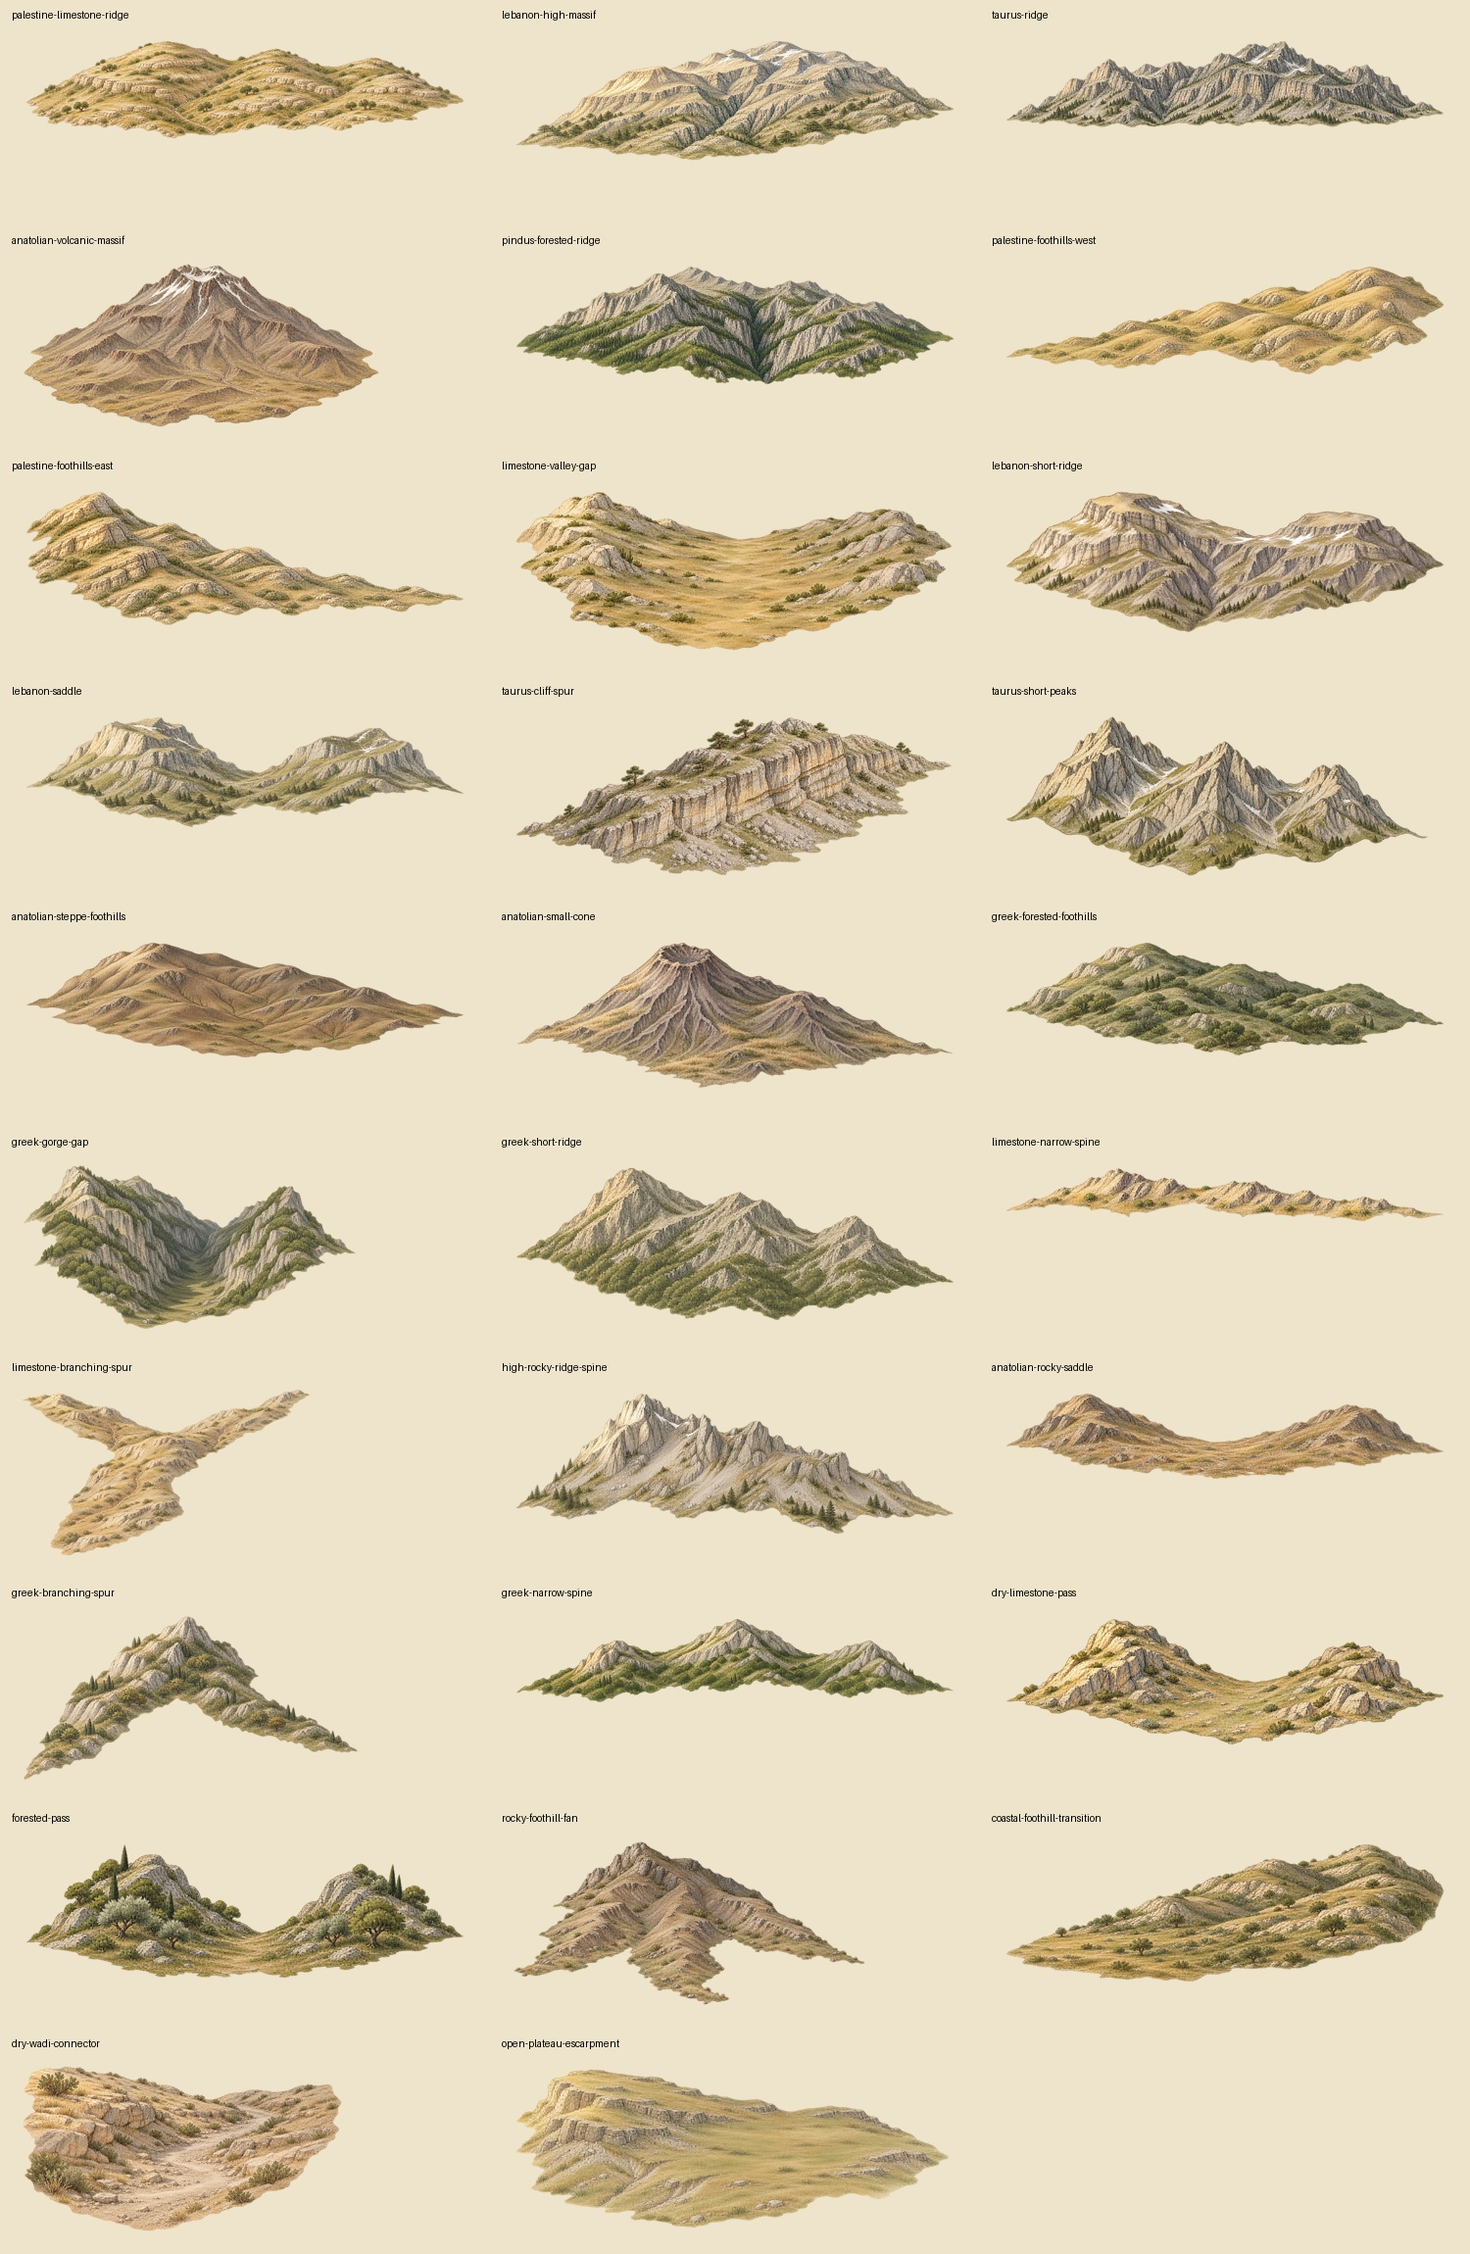
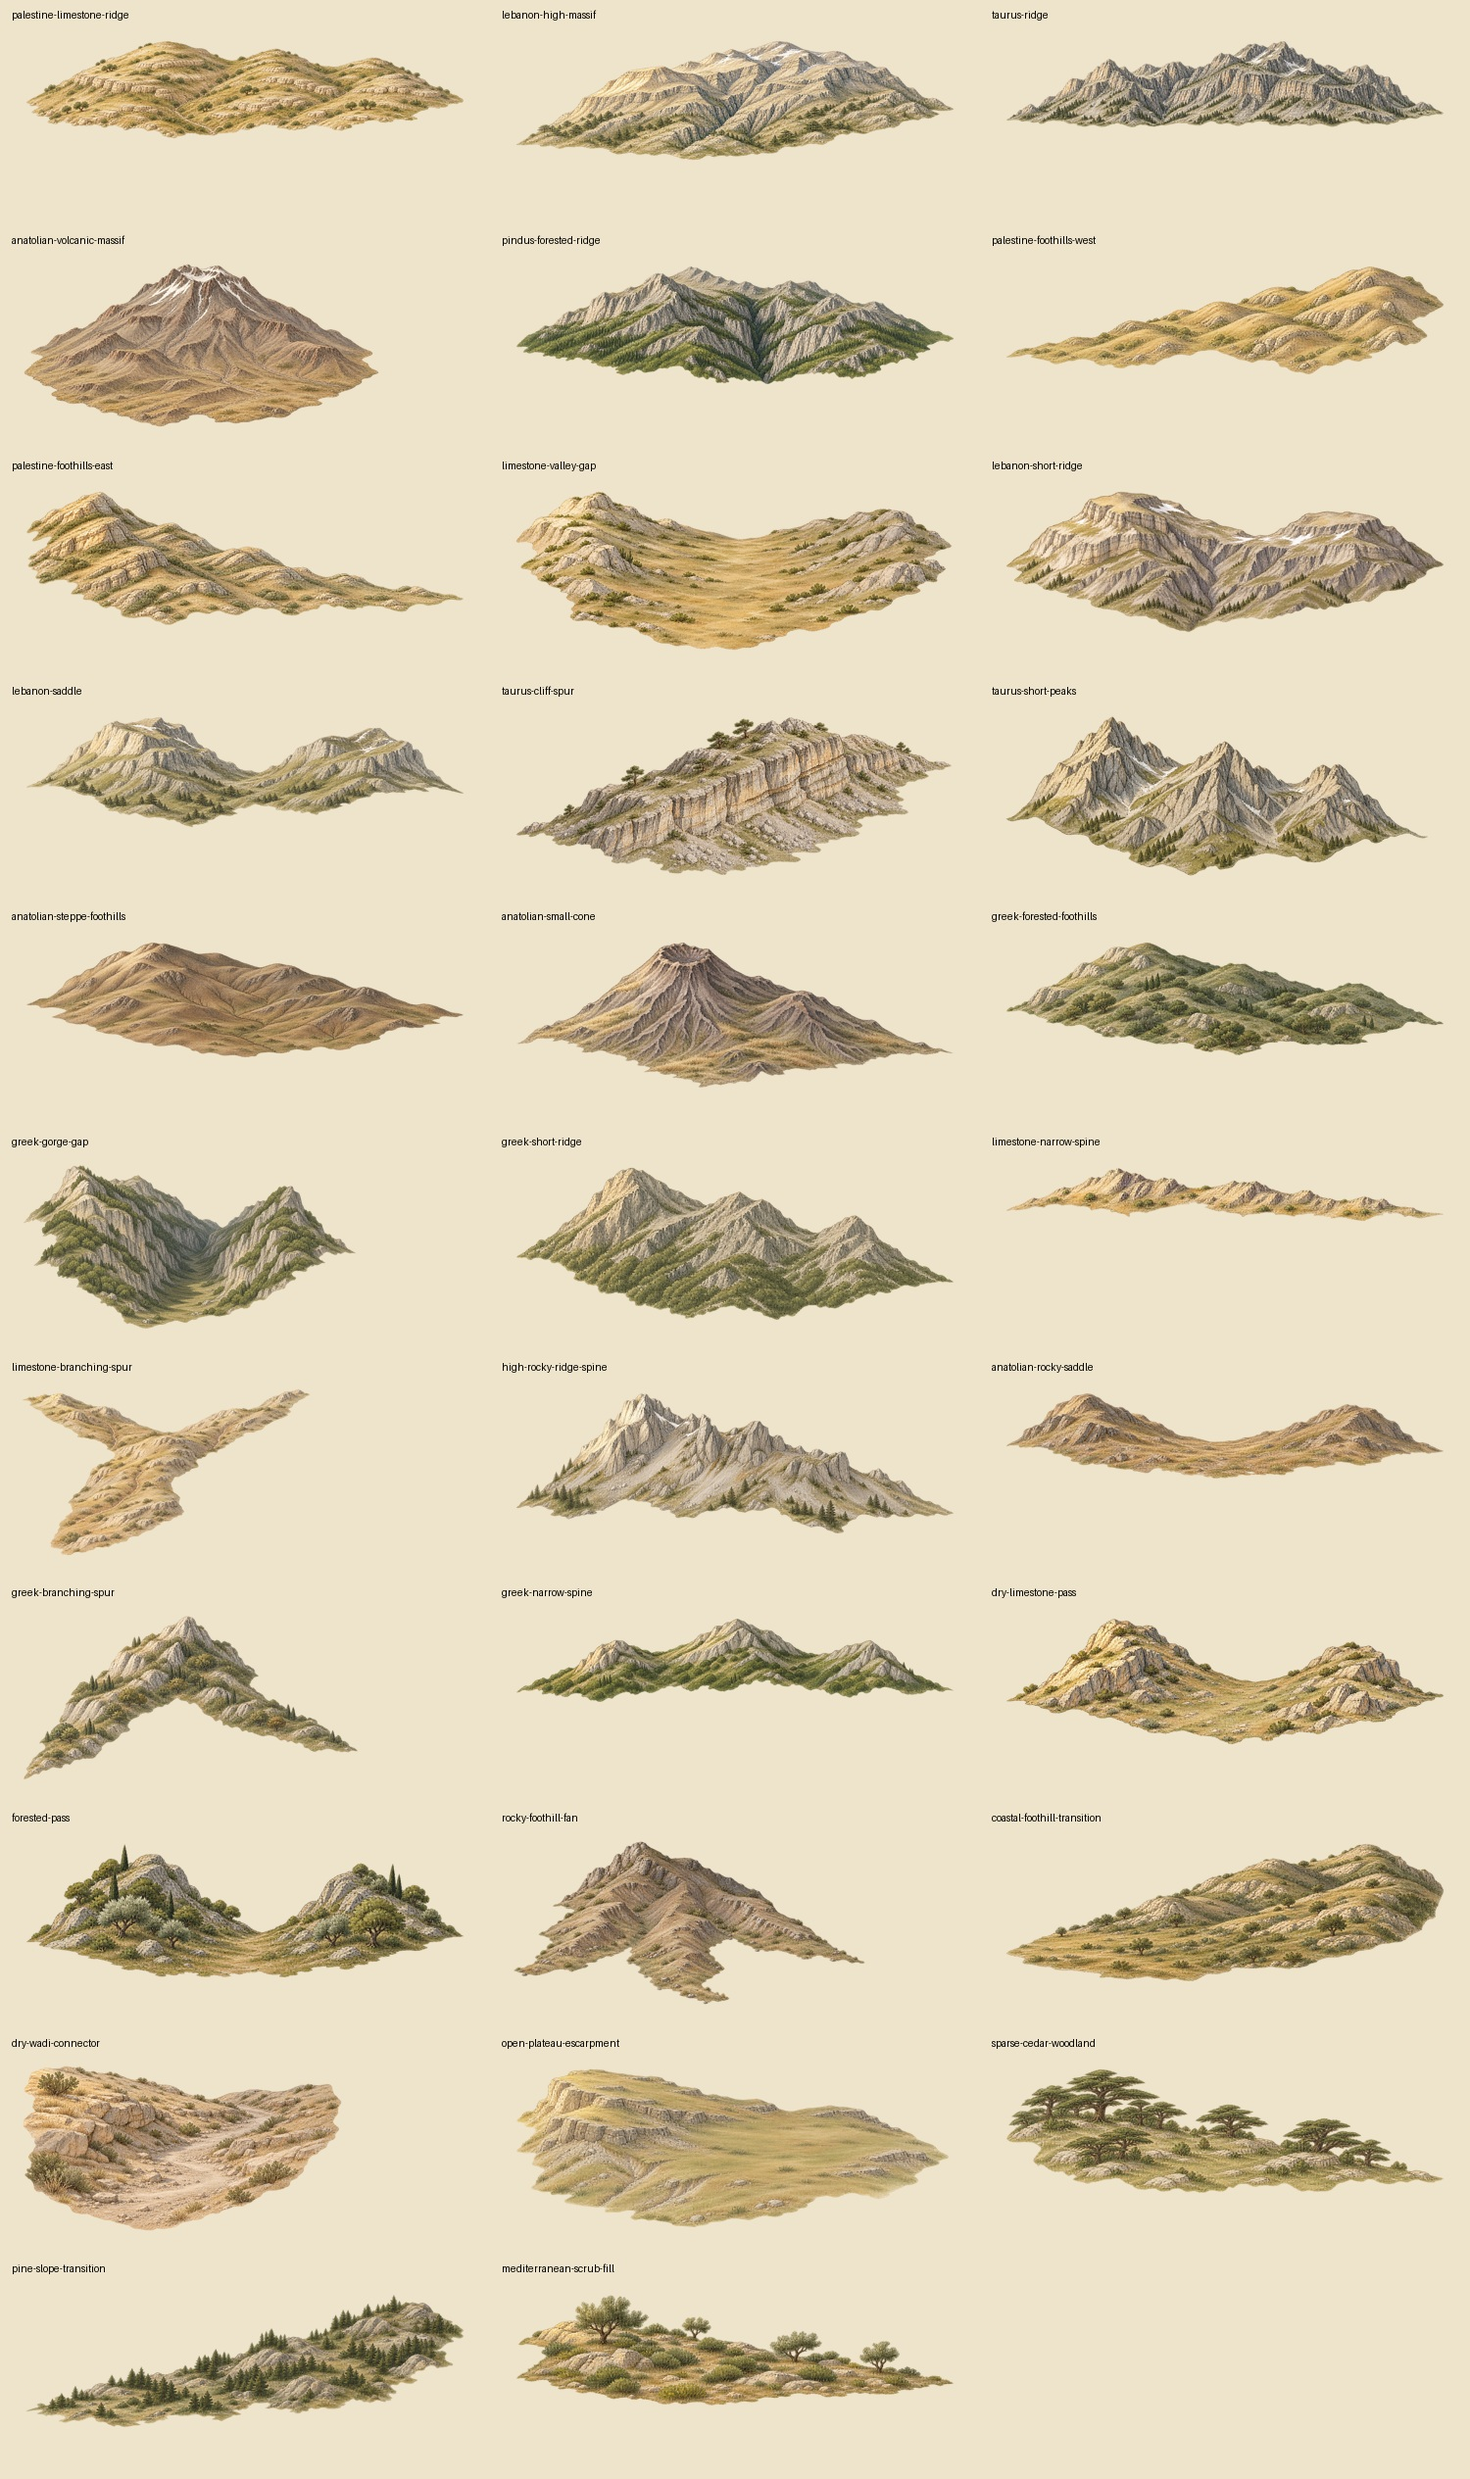
Add cedar woodland, pine slope and scrub fillers to 32-piece terrain kit

diff --git a/data/terrain/APPROVAL.md b/data/terrain/APPROVAL.md
@@ -1,8 +1,8 @@
 # Terrain artwork and placement approval
 
-Approved at the user's request for artwork and regional placement planning. All 29 final PNG assets are retained with original generations, prompts and technical checks. This approval is not historical or geographic certification and does not merge the branch into main.
+Approved at the user's request for artwork and regional placement planning. All 32 final PNG assets are retained with original generations, prompts and technical checks. This approval is not historical or geographic certification and does not merge the branch into main.
 
-`placements.geojson` inventories 29 variants plus five schematic family corridors. Point coordinates are shared regional context anchors, not instructions to pile every variant on the same location. Spread matching pieces along the appropriate range, varying scale and overlap while preserving rivers, valley gaps, settlements and labels. The corridor lines are editorial guides rather than surveyed ridge lines. The Lebanon/Hermon guide groups related artistic use cases; it does not define a single continuous mountain ridge.
+`placements.geojson` inventories 32 variants plus five schematic family corridors. Point coordinates are shared regional context anchors, not instructions to pile every variant on the same location. Spread matching pieces along the appropriate range, varying scale and overlap while preserving rivers, valley gaps, settlements and labels. The corridor lines are editorial guides rather than surveyed ridge lines. The Lebanon/Hermon guide groups related artistic use cases; it does not define a single continuous mountain ridge.
 
 Main-sheet and Aegean-inset anchors include projected sheet coordinates, image anchors, proposed display sizes and top-left positions. The inset calculation follows `rough.Region.from_lonlat` and the stage-1 layout without executing the rendering pipeline. Central Anatolian assets remain outside the current frame and have null sheet positions. Do not move those named examples into an incorrect location to fit the map.
 
@@ -15,3 +15,7 @@ The next batch adds `dry-limestone-pass`, `forested-pass`, and `rocky-foothill-f
 ## Low-relief continuation
 
 The library now contains 29 pieces. New `coastal-foothill-transition`, `dry-wadi-connector`, and `open-plateau-escarpment` assets use regional family anchors as context only. Their low-relief shapes should be placed on reviewed foothill/valley/plateau terrain rather than literally on the inherited mountain label anchor. Full built-in image_gen briefs are in `low-relief-prompts.json`; source images are retained. Artwork/placement-planning approval is recorded, while geographic and historical verification remain pending.
+
+## Vegetation continuation
+
+The kit now has 32 pieces, adding sparse cedar-like woodland, pine-covered slope and Mediterranean scrub fillers. Tree shapes are illustrative, not botanical identifications; medieval forest cover is unverified. Scale vegetation to neighboring sprites, avoid dense stacking, and preserve clear valleys and settlement labels. Full built-in image_gen prompts are in `vegetation-prompts.json`, with unchanged originals in `sources/`. These assets retain artwork and placement-planning approval only.

diff --git a/data/terrain/README.md b/data/terrain/README.md
@@ -1,6 +1,6 @@
 # Mountain terrain pieces: Palestine to Anatolia and Greece
 
-Twenty-nine reusable transparent PNGs, each 1024 pixels wide, matching the historical atlas's ink/watercolor palette and upper-left lighting. Original generations and complete prompts are preserved. Generated with built-in image_gen; `build_terrain.py` packages and checks them.
+Thirty-two reusable transparent PNGs, each 1024 pixels wide, matching the historical atlas's ink/watercolor palette and upper-left lighting. Original generations and complete prompts are preserved. Generated with built-in image_gen; `build_terrain.py` packages and checks them.
 
 | Asset | Suggested use |
 |---|---|
@@ -52,3 +52,7 @@ See `APPROVAL.md` and `placements.geojson` for the approved artwork inventory, p
 ## Low-relief continuation
 
 The library now contains 29 pieces. New `coastal-foothill-transition`, `dry-wadi-connector`, and `open-plateau-escarpment` assets use regional family anchors as context only. Their low-relief shapes should be placed on reviewed foothill/valley/plateau terrain rather than literally on the inherited mountain label anchor. Full built-in image_gen briefs are in `low-relief-prompts.json`; source images are retained. Artwork/placement-planning approval is recorded, while geographic and historical verification remain pending.
+
+## Vegetation continuation
+
+The kit now has 32 pieces, adding sparse cedar-like woodland, pine-covered slope and Mediterranean scrub fillers. Tree shapes are illustrative, not botanical identifications; medieval forest cover is unverified. Scale vegetation to neighboring sprites, avoid dense stacking, and preserve clear valleys and settlement labels. Full built-in image_gen prompts are in `vegetation-prompts.json`, with unchanged originals in `sources/`. These assets retain artwork and placement-planning approval only.

diff --git a/README.md b/README.md
@@ -31,4 +31,4 @@ See [data/sprites](data/sprites/README.md) for nine transparent city/castle asse
 
 ## Mountain terrain pieces
 
-[data/terrain](data/terrain/README.md) contains 29 transparent regional mountain and connector stamps spanning Palestine, Lebanon, Anatolia and Greece, with source images, generation prompts and placement guidance. Rebuild using `python3 build_terrain.py`. See [terrain preview](previews/terrain-library.jpg).
+[data/terrain](data/terrain/README.md) contains 32 transparent regional mountain and connector stamps spanning Palestine, Lebanon, Anatolia and Greece, with source images, generation prompts and placement guidance. Rebuild using `python3 build_terrain.py`. See [terrain preview](previews/terrain-library.jpg).
